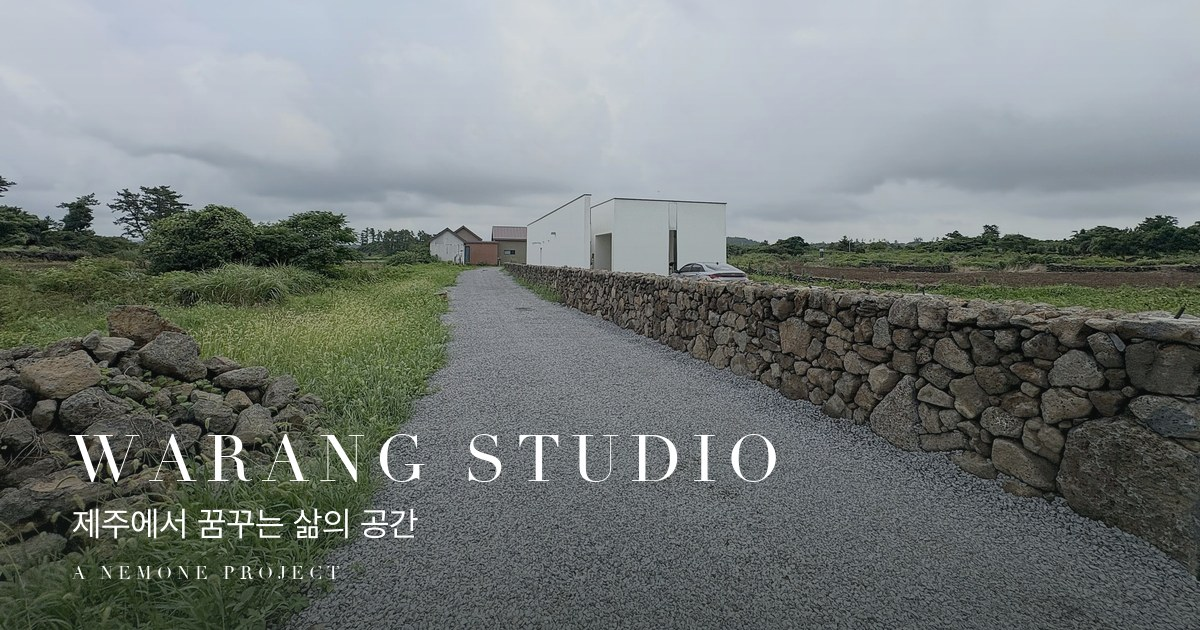
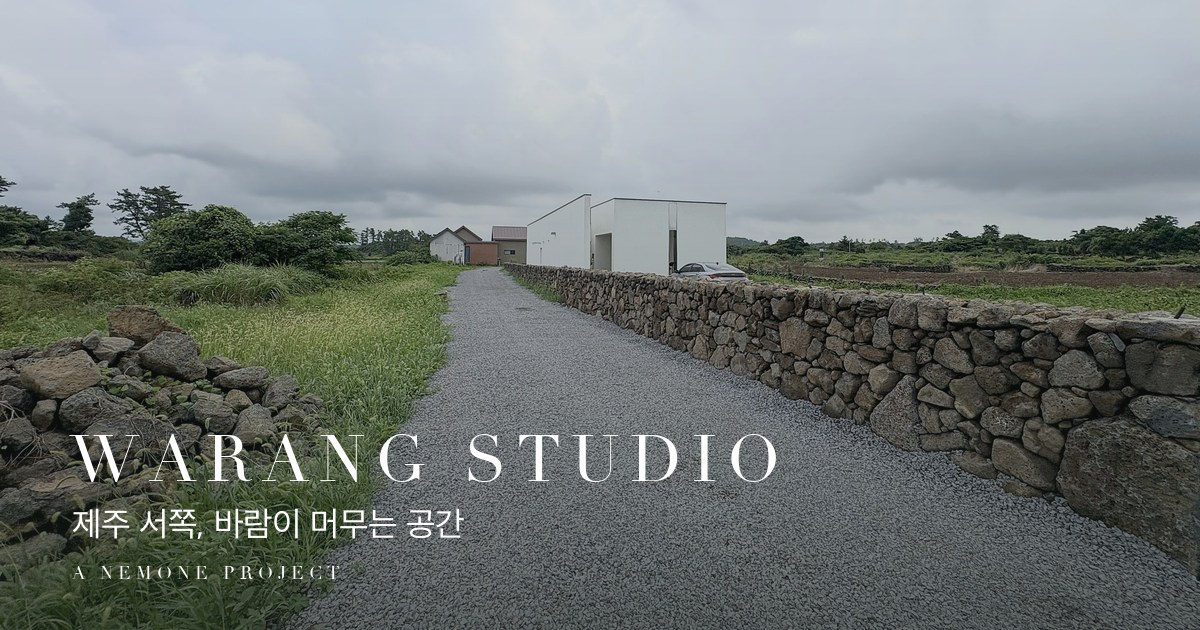
카드 사진 4장 교체(JEJU·LIFE·PLANT·ARCHITECTURE)와 제목·설명·OG 문구를 새 히어로 문구로 정렬
- 풍경종/원형 거울/밭과 돌담/블랙 루버 벽, 4:3 크롭
- title·description·OG 이미지: "제주 서쪽, 바람이 머무는 공간"

Changed region(s): [[0.0925, 0.7841, 0.4008, 0.8746]]

diff --git a/src/app/layout.tsx b/src/app/layout.tsx
@@ -11,9 +11,9 @@ import { SNS } from "@/content/links";
 
 export const metadata: Metadata = {
   metadataBase: new URL(SITE_URL),
-  title: "WARANG STUDIO — 제주에서 꿈꾸는 삶의 공간",
+  title: "WARANG STUDIO — 제주 서쪽, 바람이 머무는 공간",
   description:
-    "제주에서 시작된 공간과 삶의 이야기. 건축, 식물, 일상 그리고 아직 실현되지 않은 프로젝트를 꿈꾸는 곳. A NEMONE PROJECT.",
+    "제주 서쪽에서 시작된 공간과 삶의 이야기. 건축, 식물, 일상 그리고 아직 실현되지 않은 프로젝트를 꿈꾸는 곳. A NEMONE PROJECT.",
   // 비공개 배포 단계: 공개 전까지 색인하지 않는다(공개 전환: NEXT_PUBLIC_INDEXABLE=1 로 빌드)
   robots: INDEXABLE ? { index: true, follow: true } : { index: false, follow: false },
   applicationName: "WARANG STUDIO",
